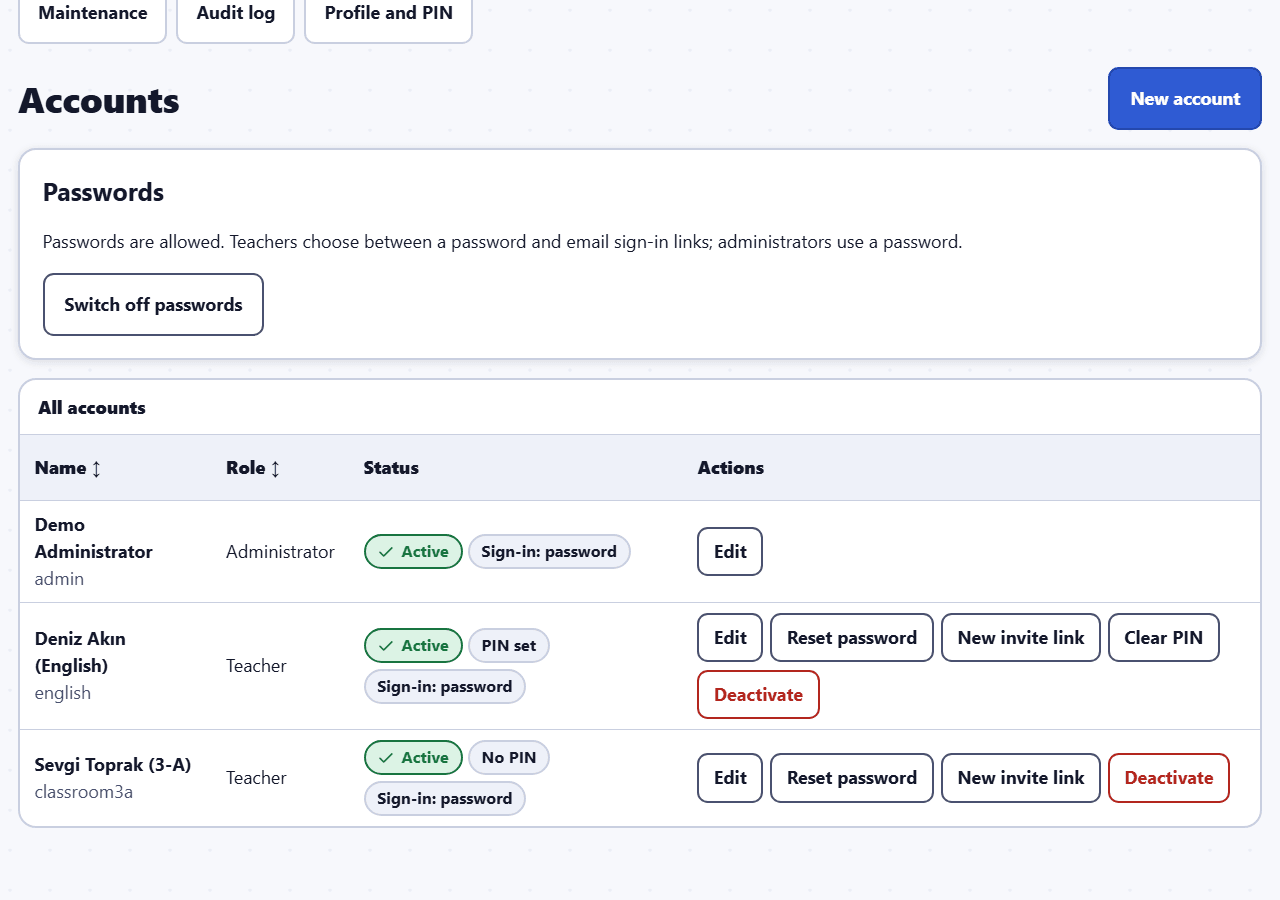
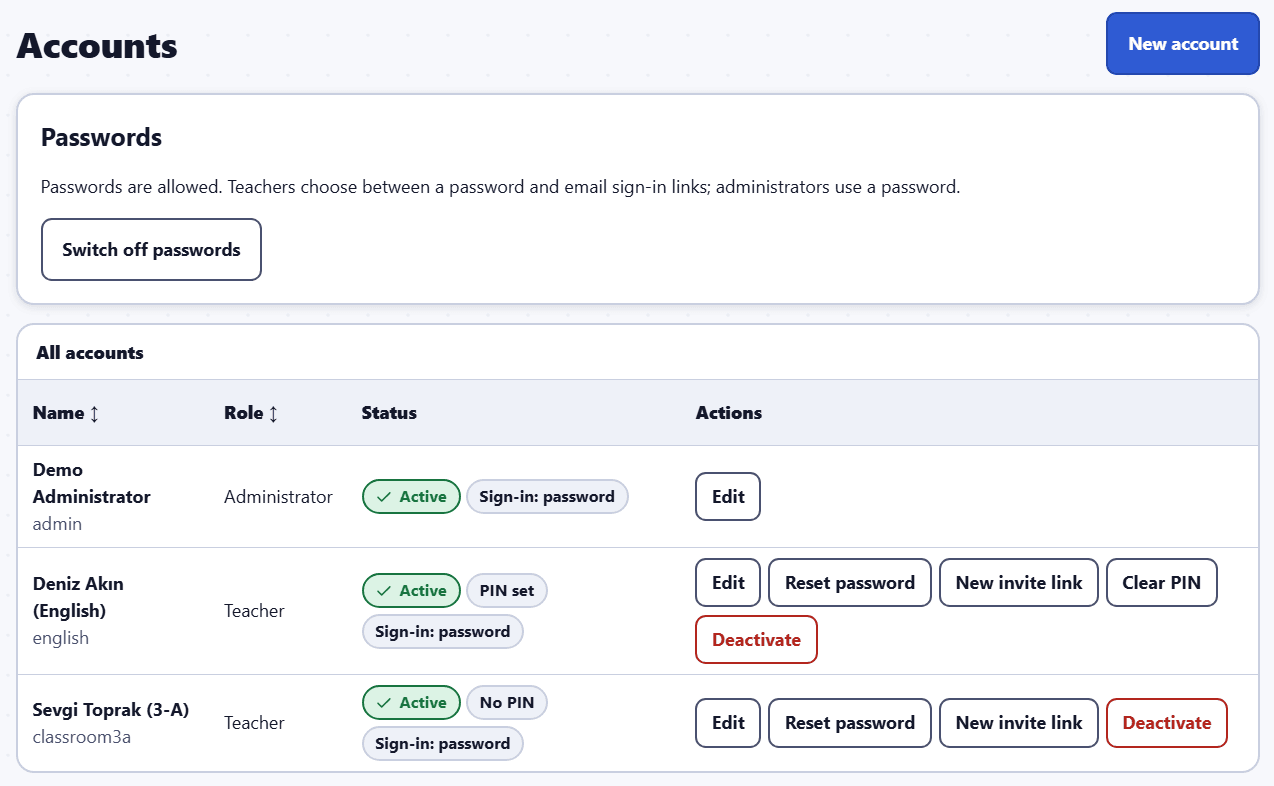
DOCS: guide fixes after review: levels and notes in exports, passkey data, sign-in without passwords
- privacy: levels and private notes never appear on the classroom screen or the
  student's page; a note is seen only by its writer, levels by the teacher of that
  subject in that class; both are in the full school export, levels also in the
  one-student export. Passkey data names the technical details; Google: "ask for,
  use or keep".
- teacher: with passwords off the sign-in page also offers passkey and Google where
  available, and keeps the password form while the school's email is not set up.
- admin: the Passwords confirmation picture sits under step 1, with the step in its
  alt text.
- Bold UI labels use the same apostrophes and quotes as the interface.
- admin-accounts picture cropped from the heading to the table in both languages.

diff --git a/e2e/docs-screenshots.spec.ts b/e2e/docs-screenshots.spec.ts
@@ -590,7 +590,9 @@ for (const lang of ['en', 'tr'] as const) {
       await expect(ap.getByRole('heading', { name: T('admin.users'), level: 1 })).toBeVisible();
       const policy = ap.getByTestId('signin-policy');
       await expect(policy.getByRole('button', { name: T('users.policyTurnOn') })).toBeEnabled();
-      await shot(ap, lang, 'admin-accounts', { from: 'main h1' });
+      // From the heading to the end of the table: the same crop in both languages, no sliver of the menu.
+      await ap.locator('main h1').first().evaluate((el) => el.scrollIntoView({ block: 'start' }));
+      await shotAround(ap, lang, 'admin-accounts', ['main h1', 'main table']);
       // "Passwords" (S30, D-207): the section, and its confirmation opened but NEVER confirmed: switching
       // passwords off would remove the demo accounts' passwords. No code is asked for, so none is emailed.
       await shot(ap, lang, 'admin-passwords', { clipTo: '[data-testid="signin-policy"]' });

diff --git a/docs/guides/en/teacher.md b/docs/guides/en/teacher.md
@@ -17,7 +17,7 @@ Your administrator creates your account. Usually you receive an **invite link** 
 - **With a password**: you type your username and a password you choose (at least 10 characters).
 - **With email sign-in links**: you have no password. Each time, press **Email me a sign-in link** on the sign-in page, type your email address and press **Send the link**. A link and a 6-digit code arrive within a minute. Open the link and press **Sign in**, or type the code on the device where you asked for the email. Both work once, for 15 minutes. The page repeats the address you typed, so you can spot a typo; **Use a different email** lets you type it again. This choice is only offered when the school has set up email and your account has an email address.
 
-Some schools switch passwords off. The invite then offers email sign-in links only, the sign-in page has no password field (only **Email me a sign-in link**), and your profile has no **Use a password instead**.
+Some schools switch passwords off. The invite then offers email sign-in links only, the sign-in page has no password field (it offers **Email me a sign-in link**, and **Sign in with a passkey** and **Sign in with Google** where the school has them), and your profile has no **Use a password instead**. Only while the school's email is not set up does the sign-in page keep its password form.
 
 If the sign-in page shows **Sign in with Google**, you can use it when your account's email address is your Google address. **Use it only on your own device.** On the classroom computer, or any computer you share, use the email code instead: a Google sign-in leaves your Google account, with your mail, open in that browser. On a computer that has been used as a classroom display the page says so and holds the Google button back; on your own laptop that you also use as the classroom display, **It is my own computer: show Google sign-in** brings it back.
 
@@ -31,7 +31,7 @@ Forgot your password? If the school has set up email, use **Forgot your password
 
 A passkey lets you sign in with your fingerprint, your face or your device's screen lock: no password to type and no email to wait for. Your phone, laptop or password manager keeps the key; the site stores only its public half. Passkeys work only when your school opens Class Compass by a named web address; at an address made only of numbers you do not see them.
 
-- **The offer:** right after you sign in by email (link, code or invite) or Google, a card **Sign in faster next time** offers to add a passkey on that device. Press **Add a passkey** only on a device that is yours alone; **Not now** hides the card on that device for a month, **Don't ask again** for good. The card does not appear after a password sign-in, on a computer that has been used as a classroom display, or once you have a passkey.
+- **The offer:** right after you sign in by email (link, code or invite) or Google, a card **Sign in faster next time** offers to add a passkey on that device. Press **Add a passkey** only on a device that is yours alone; **Not now** hides the card on that device for a month, **Don’t ask again** for good. The card does not appear after a password sign-in, on a computer that has been used as a classroom display, or once you have a passkey.
 - **Add one yourself:** open **Profile and PIN** → **Passkeys**, give it a name such as "My phone" (**Name for this passkey**), confirm that it is you (type your current password; without a password, sign in by email, Google or passkey in the last 15 minutes) and press **Add a passkey**. Your device asks for your fingerprint, face or screen lock.
 - **Sign in:** on the sign-in page press **Sign in with a passkey**. You do not type a username.
 - **On the classroom computer** do not add a passkey: anyone who can unlock that computer could then sign in as you. Profile holds the button back there and says why. You can still **sign in** on it with the passkey on your phone: press **Sign in with a passkey** and choose the phone or QR code option your browser offers.
@@ -60,7 +60,7 @@ How the lock works:
 
 Forgot your PIN? Set a new one in **Profile and PIN** with your password, or ask your administrator to clear it (you are then signed out everywhere and set a new PIN).
 
-In **Profile and PIN** you also choose your **Language**, **Text size** and **Spacing** (they change only what you see; **Spacing** — Compact, Normal or Large — sets how much room tables and cards take in the teacher area, buttons keep their size; the classroom screen sizes its student cards by itself), whether lessons open in full screen (**Lessons** → **Full screen during lessons**, see [Full screen](#full-screen)), and you can record **My time's-up recording** (see [Sounds and celebrations](#sounds-and-celebrations)).
+In **Profile and PIN** you also choose your **Language**, **Text size** and **Spacing** (they change only what you see; **Spacing** — Compact, Normal or Large — sets how much room tables and cards take in the teacher area, buttons keep their size; the classroom screen sizes its student cards by itself), whether lessons open in full screen (**Lessons** → **Full screen during lessons**, see [Full screen](#full-screen)), and you can record **My time’s-up recording** (see [Sounds and celebrations](#sounds-and-celebrations)).
 
 ## The teacher menu
 
@@ -270,8 +270,8 @@ If **Allow checking on the classroom screen** is on (Homework → Settings; off 
 
 ### Sounds and celebrations
 
-- **Class settings** → **Classroom display**: **Theme**, **Sounds** with **Volume** and **Try**, **Animations**, **Quote of the day** and **When the timer ends**: **Say "Time's up!"** (spoken in English by the computer; the chime plays if it has no English voice), **My own recording**, **Chime** or **Silent**.
-- **My own recording**: in **Profile and PIN** → **My time's-up recording**, record up to 5 seconds or choose a sound file.
+- **Class settings** → **Classroom display**: **Theme**, **Sounds** with **Volume** and **Try**, **Animations**, **Quote of the day** and **When the timer ends**: **Say “Time’s up!”** (spoken in English by the computer; the chime plays if it has no English voice), **My own recording**, **Chime** or **Silent**.
+- **My own recording**: in **Profile and PIN** → **My time’s-up recording**, record up to 5 seconds or choose a sound file.
 - **Sounds on this device** (classroom top bar → **Display**) mutes this device only.
 - Browsers play sound only after someone has tapped the screen or pressed a key. Until then the top bar shows **Sound is off · Turn sound on**; tap it (any tap works) and a short test sound plays. If you still hear nothing, open **Display** → **Sound check**: it says what is wrong (sounds off for the class or this device, volume 0, the browser waiting for a tap), shows the **Last sound**, has **Test sound**, and **Copy diagnostics** copies the details for whoever looks after Class Compass. Also check the computer's own volume and speakers.
 - Celebrations play only after you do something on the screen (a revealed Secret Student, **Celebrate on the display**), never by themselves. A device that asks for reduced motion gets a calm version without movement.

diff --git a/docs/guides/tr/privacy.md b/docs/guides/tr/privacy.md
@@ -8,7 +8,7 @@ Sınıf Pusulası, bir okulun kendi öğretmenleri ve öğrencileri için çalı
 
 - **Çalışan hesapları** (öğretmenler ve yöneticiler): ad, kullanıcı adı, e-posta adresi, arayüz dili, girişlerin ve hesapla yapılan değişikliklerin kaydı.
 - **Öğrenciler**: ad, sınıf ve okul giriyorsa öğrenci numarası; derslerde olanlar (yoklama, ödev durumu, sayaçlar, gruplar, sınıf görevleri); öğrencinin kendi sayfasına ekledikleri (hedefler, değerlendirmeler, eklediği çalışmalar, avatarı).
-- **Öğretmenlerin bir öğrenci hakkında kaydettikleri**: hedeflere ve çalışmalara geri bildirim, başarılar, Süper Konuşmacılar puanları, öğretmenin grup oluşturmak için belirlediği düzeyler ve özel notlar. Düzeyleri ve özel notları yalnızca öğretmenler görür; bunlar sınıf ekranında ya da öğrencinin sayfasında hiç görünmez. Öğrencinin yazdığı bir metinde okula uygun olmayan bir sözcük engellendiğinde site yalnızca bu denemeyi sayar; engellenen metnin kendisi saklanmaz.
+- **Öğretmenlerin bir öğrenci hakkında kaydettikleri**: hedeflere ve çalışmalara geri bildirim, başarılar, Süper Konuşmacılar puanları, öğretmenin grup oluşturmak için belirlediği düzeyler ve özel notlar. Düzeyler ve özel notlar sınıf ekranında ya da öğrencinin sayfasında hiç görünmez. Sitede bir özel notu yalnızca onu yazan öğretmen, düzeyleri de yalnızca o sınıfta o dersi veren öğretmen görür. İkisi de bir yöneticinin alabileceği okulun tüm verilerinin dışa aktarımında yer alır; tek bir öğrencinin verilerinin dışa aktarımında düzeyler vardır, özel notlar yoktur. Öğrencinin yazdığı bir metinde okula uygun olmayan bir sözcük engellendiğinde site yalnızca bu denemeyi sayar; engellenen metnin kendisi saklanmaz.
 - **Dosyalar**: fotoğraflar, ses kayıtları ve videolar yalnızca okul gerekli izni aldıktan sonra açtıysa; öğrencinin ya da öğretmenin eklediği belgeler.
 - **Değişiklik kaydı**: ortak kayıtlarda kimin neyi değiştirdiği, okulun görebilmesi için tutulur.
 
@@ -27,9 +27,9 @@ Sitede başka sistemlerden gelen sınav ya da karne notları, ev adresleri, tele
 
 - **E-postayla gönderilen bağlantı ya da kodla**: site, hesabınızdaki adrese bir e-posta gönderir. Siteden başka hiçbir şey çıkmaz.
 - **Şifreyle**, okul izin veriyorsa: şifre yalnızca geri okunamayan, karıştırılmış biçimde saklanır.
-- **Geçiş anahtarıyla**: anahtarı kendi cihazınız ya da şifre yöneticiniz saklar ve parmak izinizi, yüzünüzü ya da ekran kilidinizi ister. Sitede yalnızca anahtarın açık yarısı, ona verdiğiniz ad, eklenme ve son kullanım zamanı saklanır. Parmak iziniz ya da yüzünüz cihazınızdan hiç çıkmaz.
+- **Geçiş anahtarıyla**: anahtarı kendi cihazınız ya da şifre yöneticiniz saklar ve parmak izinizi, yüzünüzü ya da ekran kilidinizi ister. Sitede yalnızca anahtarın açık yarısı, ona verdiğiniz ad, eklenme ve son kullanım zamanı ve anahtarla ilgili birkaç teknik bilgi saklanır. Gizli anahtar cihazınızda ya da şifre yöneticinizde kalır. Parmak iziniz ya da yüzünüz cihazınızdan hiç çıkmaz.
 - **Google ile**, okul ayarladıysa. Bunu her seferinde siz seçersiniz. Google siteye iki şey bildirir: **e-posta adresiniz** ve **Google'ın Google hesabınız için kullandığı kimlik numarası**. Site bunları tek bir amaçla kullanır: okulunuzun sizin için açtığı hesabı bulup giriş yapmanızı sağlamak.
-  - Site, Google hesabınızdan başka hiçbir şey istemez, almaz ve saklamaz: kişiler, e-postalar, dosyalar, takvim ya da profil fotoğrafı alınmaz.
+  - Site, Google hesabınızdan başka hiçbir şey istemez, kullanmaz ve saklamaz: kişiler, e-postalar, dosyalar, takvim ya da profil fotoğrafı alınmaz.
   - Site Google erişim anahtarı saklamaz ve Google hesabınızda işlem yapamaz.
   - E-posta adresiniz ve Google'ın kimlik numarası okul hesabınızla birlikte saklanır, kimseyle paylaşılmaz. Okul hesabınızdaki adresi değiştirdiğinde Google'ın kimlik numarası silinir.
   - Google, bu siteye ne zaman giriş yaptığınızı öğrenir. Bu konuda Google'ın kendi gizlilik politikası geçerlidir.

diff --git a/docs/guides/en/privacy.md b/docs/guides/en/privacy.md
@@ -8,7 +8,7 @@ Class Compass is classroom software that a school runs for its own teachers and 
 
 - **Staff accounts** (teachers and administrators): name, username, email address, interface language, and a record of sign-ins and of changes made with the account.
 - **Students**: name, class, and a student number if the school enters one; what happens in lessons (attendance, homework status, counters, groups, classroom roles); and what the student adds to their own page (goals, reflections, work they attach, their avatar).
-- **What teachers record about a student**: feedback on goals and work, achievements, Super Speakers points, the levels a teacher sets for making groups, and private notes. Levels and private notes are seen only by teachers, never on the classroom screen or the student's page. When the site stops a word that is not suitable for school in what a student types, it counts the attempt; the blocked text itself is not kept.
+- **What teachers record about a student**: feedback on goals and work, achievements, Super Speakers points, the levels a teacher sets for making groups, and private notes. Levels and private notes never appear on the classroom screen or on the student's page. In the site, a private note is seen only by the teacher who wrote it, and levels only by the teacher of that subject in that class. Both are part of the school's full data export that an administrator can make; the export of one student's data contains the levels but not the private notes. When the site stops a word that is not suitable for school in what a student types, it counts the attempt; the blocked text itself is not kept.
 - **Files**: pictures, voice recordings and videos only when the school has switched them on after getting consent; documents a student or teacher attaches.
 - **A log of changes** to shared records, so the school can see who changed what.
 
@@ -27,9 +27,9 @@ The site keeps no grades from other systems, no home addresses, no phone numbers
 
 - **With a link or code sent by email**: the site sends an email to the address on your account. Nothing else leaves the site.
 - **With a password**, where the school allows it: the password is stored only in a scrambled form that cannot be read back.
-- **With a passkey**: your own device or password manager keeps the key and asks for your fingerprint, face or screen lock. The site stores only the public half of the key, the name you gave it, and when it was added and last used. Your fingerprint or face never leaves your device.
+- **With a passkey**: your own device or password manager keeps the key and asks for your fingerprint, face or screen lock. The site stores only the public half of the key, the name you gave it, when it was added and last used, and a few technical details about the key. The private key stays on your device or in your password manager. Your fingerprint or face never leaves your device.
 - **With Google**, where the school has set it up. You choose this yourself each time. Google then tells the site two things: **your email address** and **Google's own ID for your Google account**. The site uses them for one purpose: to find the account your school made for you and sign you in.
-  - The site does not ask for, receive or keep anything else from your Google account: no contacts, no mail, no files, no calendar, no profile picture.
+  - The site does not ask for, use or keep anything else from your Google account: no contacts, no mail, no files, no calendar, no profile picture.
   - The site keeps no Google access token and cannot act in your Google account.
   - Your email address and Google's ID are stored with your school account and are not shared with anyone. Google's ID is removed when the school changes the address on your account.
   - Google learns that you signed in to this site and when. Google's own privacy policy applies to that.

diff --git a/docs/guides/en/admin.md b/docs/guides/en/admin.md
@@ -58,10 +58,11 @@ Above the list, **Passwords** holds one rule for the whole school. Normally teac
 To switch passwords off:
 
 1. Press **Switch off passwords**. The window says how many accounts have a password now and warns what happens if the school's email stops working.
+
+![Step 1: the window before the code is sent, with Email me the code](../img/en/admin-passwords-confirm.png)
+
 2. Press **Email me the code**. A 6-digit code goes to your own address; it works for 15 minutes. Typing it shows that sign-in emails reach you, so you cannot lock yourself out by mistake.
 3. Type the code under **6-digit code** and press **Switch off passwords** in the window. **Cancel** closes it and changes nothing.
-
-![The confirmation before passwords are switched off](../img/en/admin-passwords-confirm.png)
 
 While passwords are off:
 
@@ -110,7 +111,7 @@ Class Compass sends email for invites, email sign-in links and password resets. 
 
 At the end of the year use **Maintenance** → **New school year**:
 
-1. **From the year**, the **New year's name**, **First day** and **Last day**. They are filled in with the old year moved on by one year; change them as needed (the dates have a calendar). Under the buttons a line says what is still missing.
+1. **From the year**, the **New year’s name**, **First day** and **Last day**. They are filled in with the old year moved on by one year; change them as needed (the dates have a calendar). Under the buttons a line says what is still missing.
 2. Choose: **Create the classes again (grade + 1)**, **Keep the same teachers and subjects**, **Move the students up on the first day**, **Archive the old year (read-only)**.
 3. **Preview**. Each class can be switched off (for example a final grade that graduates: it is not created again and nobody moves up from it) and new names can be changed. After any change, **Preview again**.
 4. **Start the new year**: type the old year's name to confirm. Everything happens at once and is recorded in the audit log. History stays with the students.
@@ -271,7 +272,7 @@ The history below lists **All imports in the school** with who made each one. **
 **Maintenance** → **Exports**:
 
 - **Full school export**: a ZIP file with one spreadsheet (CSV) per table, optionally the uploaded files (**Include uploaded files**), and a manifest. Type `EXPORT` to prepare it. It contains every student's data **and the teachers' private notes**: keep it safe and share it only as the school's data protection rules allow. Never included: passwords, PINs, sign-in data, student link codes, pairing codes and Secret Students who were never revealed.
-- **One student's data (KVKK request)**: choose the student and **Prepare export**. Everything recorded about that student, with their files. Private teacher notes stay with their author; the export says how many exist.
+- **One student’s data (KVKK request)**: choose the student and **Prepare export**. Everything recorded about that student, with their files. Private teacher notes stay with their author; the export says how many exist.
 
 An export can be downloaded **once**, within one hour, only by you; then it is deleted. Preparing and downloading are recorded in the audit log.
 

diff --git a/docs/guides/tr/teacher.md b/docs/guides/tr/teacher.md
@@ -17,7 +17,7 @@ Hesabınızı okul yöneticiniz açar. Genellikle size bir **davet bağlantısı
 - **Şifreyle**: kullanıcı adınızı ve kendi belirlediğiniz şifreyi (en az 10 karakter) yazarsınız.
 - **E-posta giriş bağlantılarıyla**: şifreniz olmaz. Her girişte giriş sayfasında **Bana e-postayla giriş bağlantısı gönder** düğmesine basar, e-posta adresinizi yazar ve **Bağlantıyı gönder**'e basarsınız. Bir dakika içinde bir bağlantı ve 6 haneli bir kod gelir. Bağlantıyı açıp **Giriş yap**'a basın ya da kodu e-postayı istediğiniz cihaza yazın. İkisi de yalnızca bir kez ve 15 dakika boyunca çalışır. Sayfa yazdığınız adresi tekrar gösterir, böylece yazım hatasını görebilirsiniz; **Başka bir e-posta adresi kullan** ile adresi yeniden yazabilirsiniz. Bu seçenek yalnızca okulda e-posta gönderimi ayarlanmışsa ve hesabınızda bir e-posta adresi varsa sunulur.
 
-Bazı okullar şifreleri kapatır. O zaman davet yalnızca e-posta giriş bağlantılarını sunar, giriş sayfasında şifre alanı bulunmaz (yalnızca **Bana e-postayla giriş bağlantısı gönder** vardır) ve profilinizde **Bunun yerine şifre kullan** yer almaz.
+Bazı okullar şifreleri kapatır. O zaman davet yalnızca e-posta giriş bağlantılarını sunar, giriş sayfasında şifre alanı bulunmaz (**Bana e-postayla giriş bağlantısı gönder** düğmesi, okulda varsa **Geçiş anahtarıyla giriş yap** ve **Google ile giriş yap** düğmeleri vardır) ve profilinizde **Bunun yerine şifre kullan** yer almaz. Okulun e-postası henüz ayarlanmamışsa giriş sayfası şifre formunu korur.
 
 Giriş sayfasında **Google ile giriş yap** görünüyorsa, hesabınızdaki e-posta adresi Google adresinizse bunu kullanabilirsiniz. **Yalnızca kendi cihazınızda kullanın.** Sınıf bilgisayarında ya da başkalarıyla paylaştığınız bir bilgisayarda bunun yerine e-posta kodunu kullanın: Google ile giriş, Google hesabınızı e-postalarınızla birlikte o tarayıcıda açık bırakır. Sınıf ekranı olarak kullanılmış bir bilgisayarda sayfa bunu söyler ve Google düğmesini geri tutar; sınıf ekranı olarak da kullandığınız kendi dizüstü bilgisayarınızda **Bu benim kendi bilgisayarım: Google ile girişi göster** düğmesi onu yeniden gösterir.
 

diff --git a/docs/guides/tr/admin.md b/docs/guides/tr/admin.md
@@ -58,10 +58,11 @@ Listenin üstündeki **Şifreler** bölümünde bütün okul için tek bir kural
 Şifreleri kapatmak için:
 
 1. **Şifreleri kapat**'a basın. Açılan pencere şu anda kaç hesabın şifresi olduğunu söyler ve okulun e-postası çalışmazsa ne olacağı konusunda uyarır.
+
+![1. adım: kod gönderilmeden önceki pencere, Kodu bana e-postayla gönder düğmesiyle](../img/tr/admin-passwords-confirm.png)
+
 2. **Kodu bana e-postayla gönder**'e basın. Kendi adresinize 15 dakika geçerli, 6 haneli bir kod gelir. Kodu yazmanız giriş e-postalarının size ulaştığını gösterir; böylece yanlışlıkla kendinizi dışarıda bırakamazsınız.
 3. Kodu **6 haneli kod** alanına yazın ve penceredeki **Şifreleri kapat**'a basın. **Vazgeç** pencereyi kapatır, hiçbir şeyi değiştirmez.
-
-![Şifreler kapatılmadan önceki onay penceresi](../img/tr/admin-passwords-confirm.png)
 
 Şifreler kapalıyken:
 
